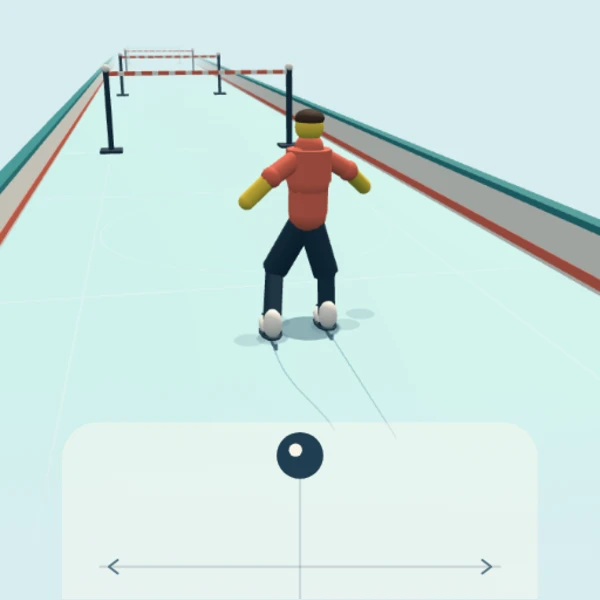
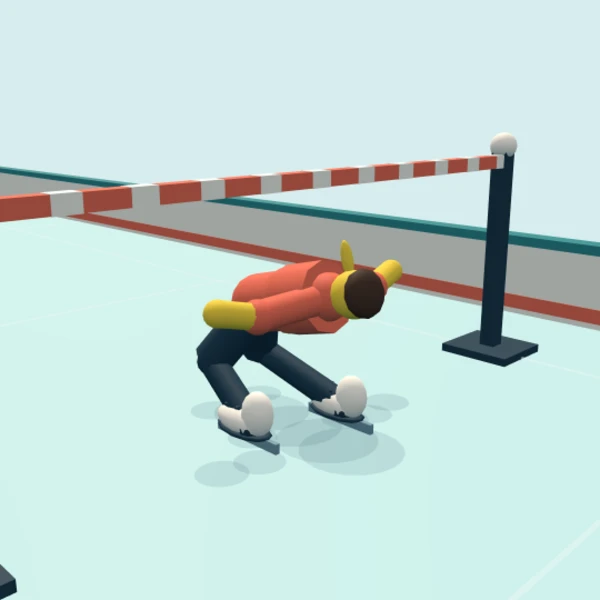
リンボー姿勢に寄ったUIなしのサムネイルへ変更

diff --git a/games/skate-limbo/index.html b/games/skate-limbo/index.html
@@ -169,6 +169,13 @@ function draw(){
   window.zResultActions.place(shareButton,{x:220,y:H-127,w:240,h:70},W,H,s.state==='fall'||s.state==='result');
 }
 window.__probe={now:()=>({state:s.state,score:s.score,distance:s.distance,goal:s.goal,remaining:s.goal-s.distance,shareText:shareText(),shareVisible:!shareButton.hidden,W,H,z:s.z,x:s.x,roll:s.roll,rv:s.rv,bend:s.bend,target:s.target,weight:s.weight,speed:s.speed,reason:s.reason,fallTime:s.fallTime,positions:(s.rag||P.pose(s)).map(p=>({x:p.x,y:p.y,z:p.z})),gates:s.gates.map(g=>({...g})),renderer:!!view3d}),step:n=>{for(let i=0;i<(n||1);i++){update(1/60);draw();}},reset};
+// サムネイルには操作表示を重ねず、実際の模型と反り姿勢を撮る。
+window.__thumbnail=options=>{
+  if(options.scene!=='limbo'||Object.keys(options).some(k=>k!=='scene'))throw Error('未対応の撮影条件');
+  if(!view3d)throw Error('3D描画を開始できません');
+  window.__recordManual=true;reset();s.z=54;s.bend=.9;s.target=.9;s.roll=0;s.weight=0;s.thrust=0;s.t=0;
+  canvas.width=canvas.height=540;ctx.setTransform(1,0,0,1,0,0);ctx.drawImage(view3d.draw(s,1080,1080,true),0,0,540,540);
+};
 window.__recording={sound:()=>{audioOn();return AC;},frame:()=>canvas,run:async r=>{await r.wait(900);r.key();await r.until(()=>s.state==='result',15);await r.wait(1200);}};
 layout();draw();let last=performance.now();function loop(now){const dt=Math.min(.05,(now-last)/1000);last=now;if(!window.__recordManual){accum+=dt;while(accum>=1/60){update(1/60);accum-=1/60;}draw();}requestAnimationFrame(loop);}requestAnimationFrame(loop);
 })();

diff --git a/games/skate-limbo/scene.js b/games/skate-limbo/scene.js
@@ -64,7 +64,7 @@
     });
     let trackRound=null,trackSlot=-1,trackIndex=0,lastZ=-99,previousFeet=null;
     let follow=0,cameraStopped=false;
-    function draw(s,w,h){
+    function draw(s,w,h,thumbnail=false){
       const dt=festivalTime===null||s.t<festivalTime?0:Math.min(.05,s.t-festivalTime);festivalTime=s.t;
       const target=s.state==='play'?window.SkatePhysics.clamp((s.bend-.04)/.55,0,1):0;
       if(s.state==='intro'||s.state==='fall'||(s.state==='result'&&s.reason!=='clear')||s.t===0)festivalFade=0;else festivalFade+=(target-festivalFade)*(1-Math.exp(-dt*4));
@@ -106,6 +106,8 @@
       camera.position.set(s.x*.8+1.65+Math.sin(s.t*65)*shake,ground(follow)+3.2,follow-6.8);camera.lookAt(s.x*.8,ground(follow)+.75,follow+1.0);
       if(s.state==='result'&&s.reason==='clear')cameraStopped=true;
       }
+      // 撮影時だけ、反った体とバーを斜め横から大きく写す。
+      if(thumbnail){camera.position.set(s.x+3.4,ground(s.z)+2.2,s.z-3.4);camera.lookAt(s.x,ground(s.z)+.95,s.z);}
       renderer.render(scene,camera);return renderer.domElement;
     }
     return {draw};
